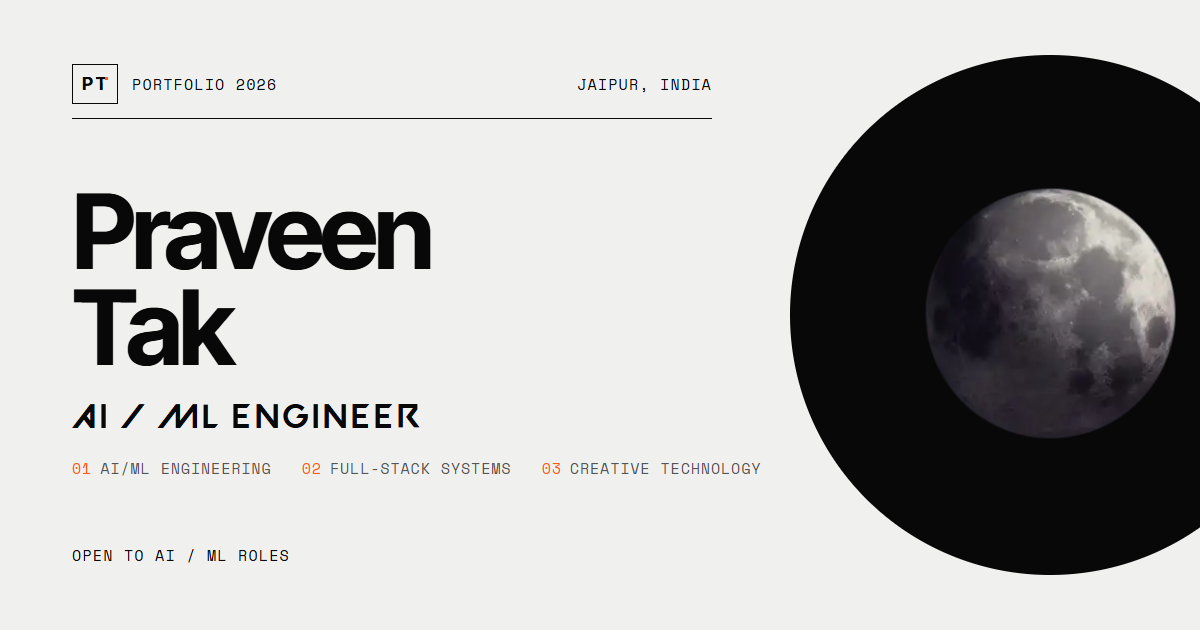
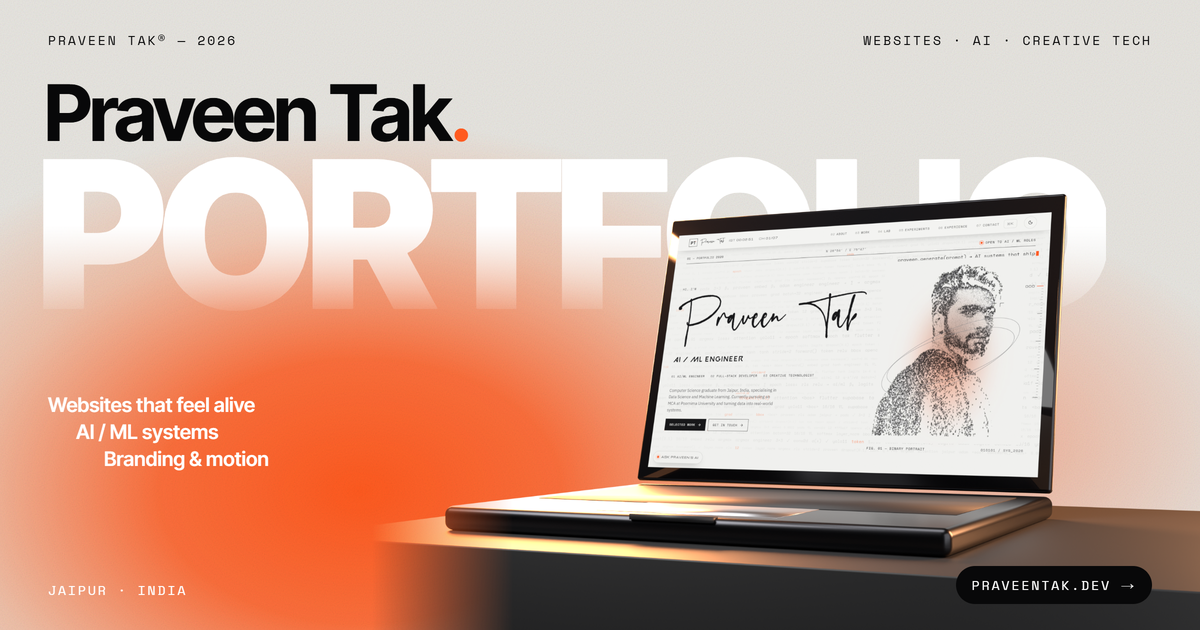
Share card: Blender laptop cover (light-mode site on a black laptop, bold PORTFOLIO type)
- public/og.png regenerated by scripts/og-laptop.py (Blender) + scripts/og-compose.mjs.
- make-brand-assets no longer overwrites og.png; og:image:alt describes the new card.

diff --git a/scripts/og-laptop.py b/scripts/og-laptop.py
@@ -1,0 +1,152 @@
+"""Share-card laptop: procedural laptop on a black plinth with a site screenshot on the screen (transparent PNG).
+blender -b -P scripts/og-laptop.py -- <screen.png> <out.png> <W> <H> [samples]   (screen: light-mode hero, 2880x1800, reduced motion)
+Then: node scripts/og-compose.mjs <dir with lap-final.png> <out-2x.png>, downscale to public/og.png (1200x630).
+"""
+import bpy, sys, math
+from mathutils import Vector
+
+argv = sys.argv[sys.argv.index("--") + 1:]
+SCREEN, OUT, W, H = argv[0], argv[1], int(argv[2]), int(argv[3])
+SAMPLES = int(argv[4]) if len(argv) > 4 else 128
+
+bpy.ops.wm.read_factory_settings(use_empty=True)
+sc = bpy.context.scene
+
+
+def mat(name, color, metal=0.0, rough=0.4, coat=0.0):
+    m = bpy.data.materials.new(name)
+    m.use_nodes = True
+    p = m.node_tree.nodes["Principled BSDF"]
+    p.inputs["Base Color"].default_value = (*color, 1)
+    p.inputs["Metallic"].default_value = metal
+    p.inputs["Roughness"].default_value = rough
+    if coat:
+        p.inputs["Coat Weight"].default_value = coat
+    return m
+
+
+def box(name, size, loc, material, bevel=0.0, segs=6):
+    bpy.ops.mesh.primitive_cube_add(size=1, location=loc)
+    o = bpy.context.object
+    o.name = name
+    o.scale = size
+    bpy.ops.object.transform_apply(scale=True)
+    if bevel:
+        b = o.modifiers.new("bevel", "BEVEL")
+        b.width, b.segments, b.limit_method = bevel, segs, "ANGLE"
+    o.data.materials.append(material)
+    bpy.ops.object.shade_smooth()
+    return o
+
+
+alu = mat("alu", (0.045, 0.045, 0.05), metal=1.0, rough=0.28)
+dark = mat("deck", (0.02, 0.02, 0.022), rough=0.5)
+glass = mat("bezel", (0.004, 0.004, 0.005), rough=0.06, coat=1.0)
+plinth = mat("plinth", (0.012, 0.012, 0.013), rough=0.55)
+
+# ---- base (3.04 x 2.12 x 0.14) ----
+BW, BD, BH = 3.04, 2.12, 0.14
+box("base", (BW, BD, BH), (0, 0, BH / 2), alu, bevel=0.05)
+box("deck", (BW - 0.36, BD - 0.9, 0.004), (0, 0.22, BH + 0.001), dark)  # keyboard well
+box("pad", (1.1, 0.62, 0.003), (0, -0.62, BH + 0.0005), mat("pad", (0.5, 0.5, 0.52), metal=1, rough=0.35))
+# front notch
+box("notch", (0.5, 0.06, 0.03), (0, -BD / 2 + 0.02, BH - 0.01), dark)
+
+# ---- lid on a hinge at the back edge ----
+LH, LT = 2.02, 0.05
+bpy.ops.object.empty_add(location=(0, BD / 2 - 0.04, BH + 0.02))
+hinge = bpy.context.object
+lid = box("lid", (BW, LT, LH), (0, BD / 2 - 0.04, BH + 0.02 + LH / 2), alu, bevel=0.03)
+bez = box("bezel", (BW - 0.04, 0.004, LH - 0.04), (0, BD / 2 - 0.04 - LT / 2 - 0.002, BH + 0.02 + LH / 2), glass)
+# screen 16:10
+SW, SH = 2.86, 2.86 / 1.6
+bpy.ops.mesh.primitive_plane_add(size=1, location=(0, BD / 2 - 0.04 - LT / 2 - 0.0045, BH + 0.02 + LH / 2 - 0.02))
+scr = bpy.context.object
+scr.scale = (SW, SH, 1)
+scr.rotation_euler = (math.radians(90), 0, 0)
+bpy.ops.object.transform_apply(scale=True, rotation=True)
+sm = bpy.data.materials.new("screen")
+sm.use_nodes = True
+nt = sm.node_tree
+# Screen = the image as pure light (no reflections washing it out), with a faint glass sheen.
+nt.nodes.remove(nt.nodes["Principled BSDF"])
+em = nt.nodes.new("ShaderNodeEmission")
+tex = nt.nodes.new("ShaderNodeTexImage")
+tex.image = bpy.data.images.load(SCREEN)
+tex.interpolation = "Cubic"
+nt.links.new(tex.outputs["Color"], em.inputs["Color"])
+em.inputs["Strength"].default_value = 1.0
+gl = nt.nodes.new("ShaderNodeBsdfGlossy")
+gl.inputs["Roughness"].default_value = 0.08
+mix = nt.nodes.new("ShaderNodeMixShader")
+mix.inputs[0].default_value = 0.0
+nt.links.new(em.outputs[0], mix.inputs[1])
+nt.links.new(gl.outputs[0], mix.inputs[2])
+nt.links.new(mix.outputs[0], nt.nodes["Material Output"].inputs["Surface"])
+scr.data.materials.append(sm)
+# UVs of the default plane already map 0..1; plane faces -y after the rotation -> flip so the image reads correctly
+for o in (lid, bez, scr):
+    o.parent = hinge
+    o.matrix_parent_inverse = hinge.matrix_world.inverted()
+hinge.rotation_euler = (math.radians(-14), 0, 0)  # open ~104 deg
+
+# ---- plinth ----
+box("plinth", (5.4, 3.6, 2.4), (0.6, 0.2, -1.2), plinth, bevel=0.01, segs=2)
+
+# ---- lights ----
+def area(name, loc, target, size, energy, color=(1, 1, 1)):
+    bpy.ops.object.light_add(type="AREA", location=loc)
+    l = bpy.context.object
+    l.data.size, l.data.energy, l.data.color = size, energy, color
+    d = Vector(target) - Vector(loc)
+    l.rotation_euler = d.to_track_quat("-Z", "Y").to_euler()
+    return l
+
+area("key", (-5, -4, 7), (0, 0, 0.8), 5, 900)
+area("rim", (-5, 4, 3), (0, 0.8, 1), 4, 3000, (1.0, 0.36, 0.12))
+area("rim2", (5, 3.5, 2.5), (0, 0.8, 1), 3, 1200, (1.0, 0.45, 0.2))  # orange rim (site accent)
+area("fill", (6, -3, 2), (0, 0, 1), 6, 250)
+area("top", (0, -1, 8), (0, 0, 0), 4, 300)
+
+w = bpy.data.worlds.new("w")
+sc.world = w
+w.use_nodes = True
+w.node_tree.nodes["Background"].inputs[0].default_value = (0.05, 0.05, 0.055, 1)
+w.node_tree.nodes["Background"].inputs[1].default_value = 0.35
+
+# ---- camera ----
+bpy.ops.object.camera_add(location=(3.3, -6.6, 0.75))
+cam = bpy.context.object
+cam.data.lens = 50
+d = Vector((0.15, 0.4, 1.05)) - cam.location
+cam.rotation_euler = d.to_track_quat("-Z", "Y").to_euler()
+sc.camera = cam
+
+r = sc.render
+r.engine = "CYCLES"
+sc.cycles.samples = SAMPLES
+sc.cycles.use_denoising = True
+try:
+    prefs = bpy.context.preferences.addons["cycles"].preferences
+    for kind in ("OPTIX", "CUDA", "HIP", "ONEAPI"):
+        try:
+            prefs.compute_device_type = kind
+            prefs.get_devices()
+            if any(d.type == kind for d in prefs.devices):
+                for d in prefs.devices:
+                    d.use = True
+                sc.cycles.device = "GPU"
+                print("GPU:", kind)
+                break
+        except Exception:
+            pass
+except Exception:
+    pass
+r.film_transparent = True
+r.resolution_x, r.resolution_y, r.resolution_percentage = W, H, 100
+sc.view_settings.view_transform = "Standard"
+r.image_settings.file_format = "PNG"
+r.image_settings.color_mode = "RGBA"
+r.filepath = OUT
+bpy.ops.render.render(write_still=True)
+print("DONE", OUT)
